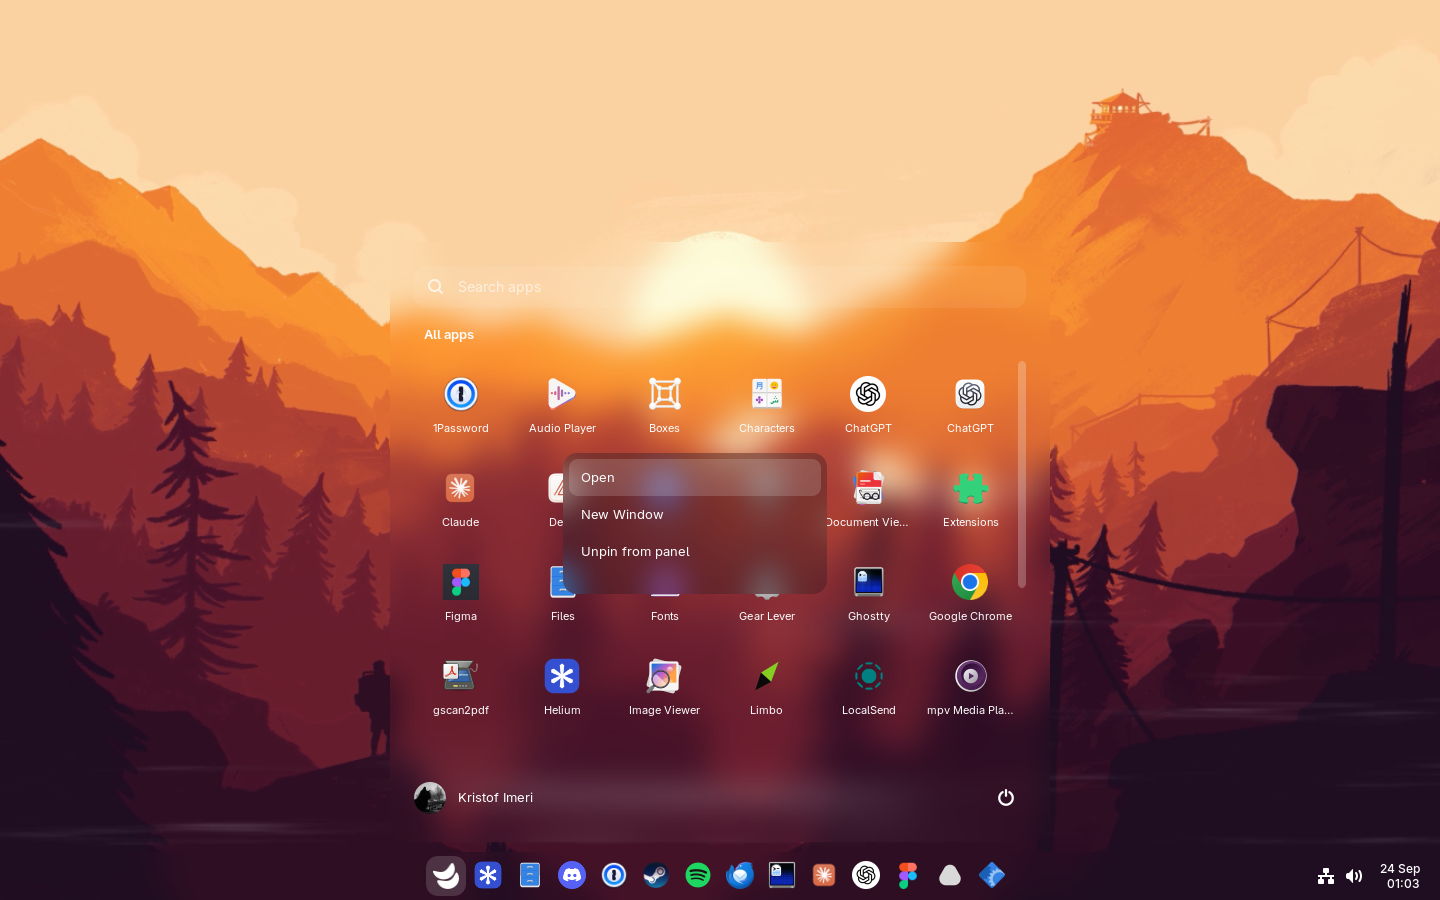
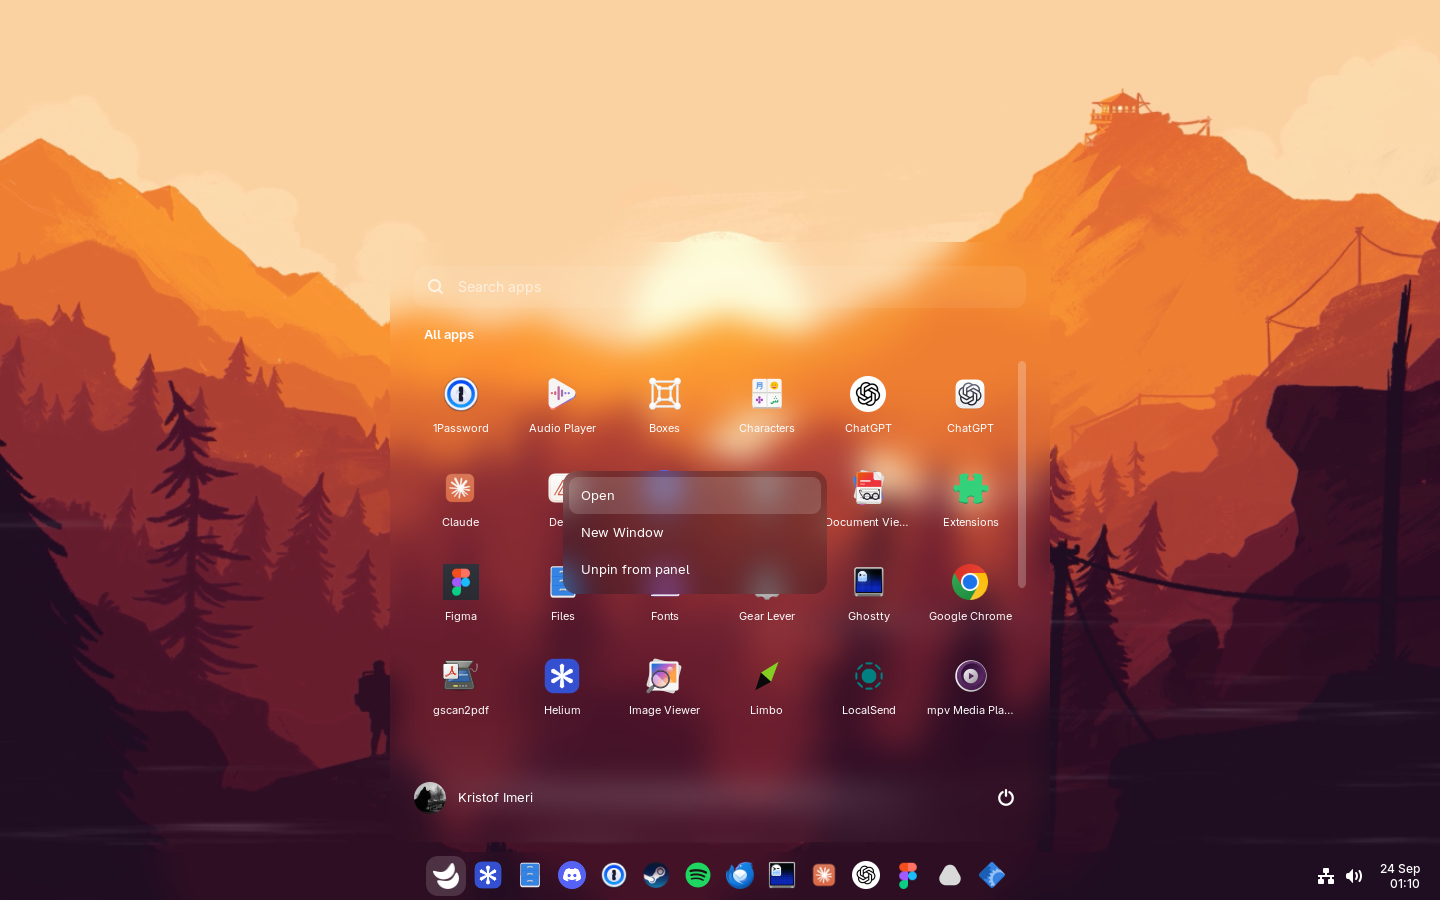
Fix context menu sizing and text pixel alignment

Changed region(s): [[0.375, 0.4978, 0.5938, 0.6533], [0.9688, 0.9644, 1.0, 0.9956]]

diff --git a/kestrel/ui/src/contextMenus.ts b/kestrel/ui/src/contextMenus.ts
@@ -105,17 +105,16 @@ export class ContextMenus {
     const scroll = new St.ScrollView({ hscrollbar_policy: St.PolicyType.NEVER, vscrollbar_policy: St.PolicyType.AUTOMATIC });
     scroll.child = content;
     this.actor.add_child(scroll);
+    this.actor.show();
     scroll.height = Math.min(content.get_preferred_height(this.actor.width - 12)[1], monitor.height - 40);
     this.shield.set_position(monitor.x, monitor.y);
     this.shield.set_size(monitor.width, monitor.height);
     this.shield.get_parent()!.set_child_above_sibling(this.shield, null);
     this.actor.get_parent()!.set_child_above_sibling(this.actor, null);
-    this.actor.show();
     const height = this.actor.get_preferred_height(this.actor.width)[1];
-    this.actor.set_position(Math.max(monitor.x + 8, Math.min(x, monitor.x + monitor.width - this.actor.width - 8)),
-      Math.max(monitor.y + 8, Math.min(y - height, monitor.y + monitor.height - height - 8)));
+    this.actor.set_position(Math.round(Math.max(monitor.x + 8, Math.min(x, monitor.x + monitor.width - this.actor.width - 8))),
+      Math.round(Math.max(monitor.y + 8, Math.min(y - height, monitor.y + monitor.height - height - 8))));
     this.shield.show();
-    this.actor.show();
     this.actor.opacity = 0;
     this.actor.translation_y = 6;
     animateActor(this.actor, { opacity: 255, translation_y: 0, duration: 130, mode: Clutter.AnimationMode.EASE_OUT_QUAD });
